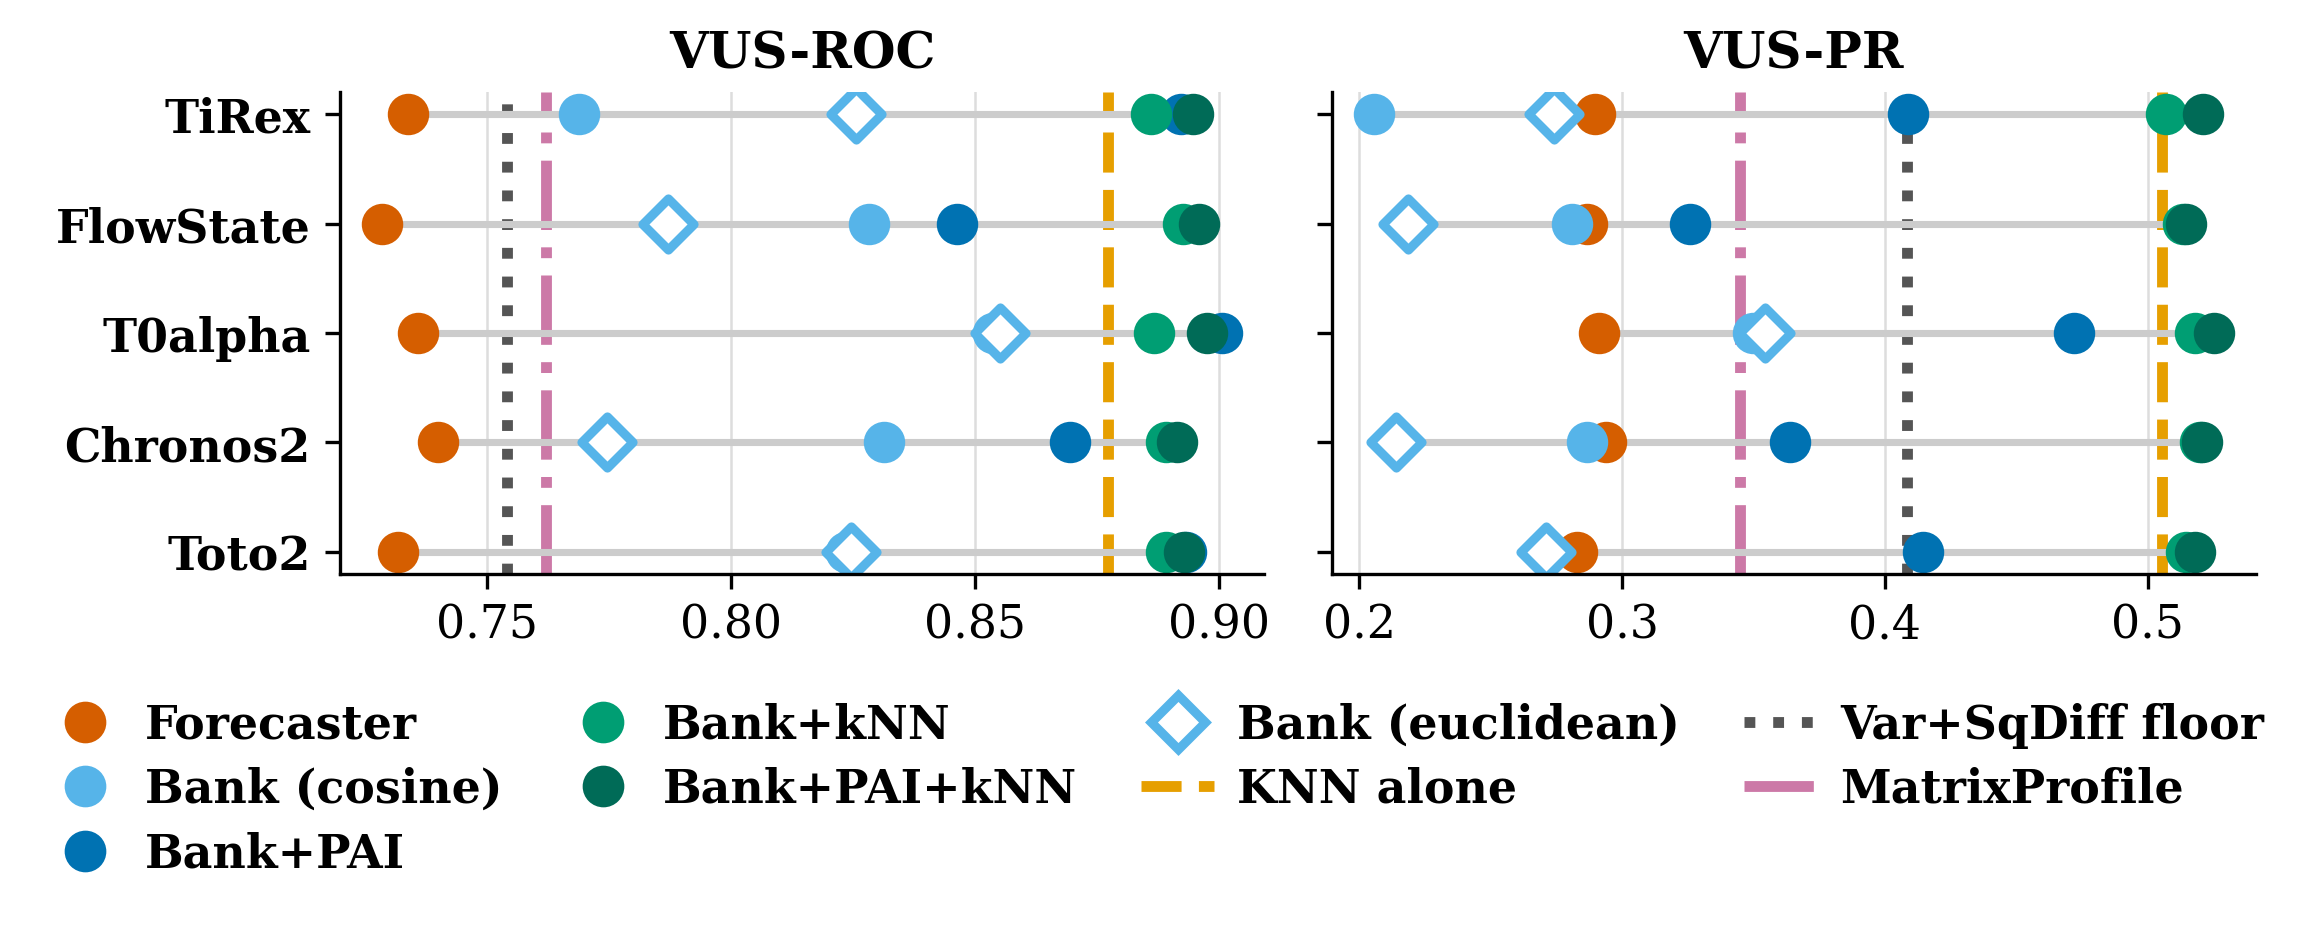
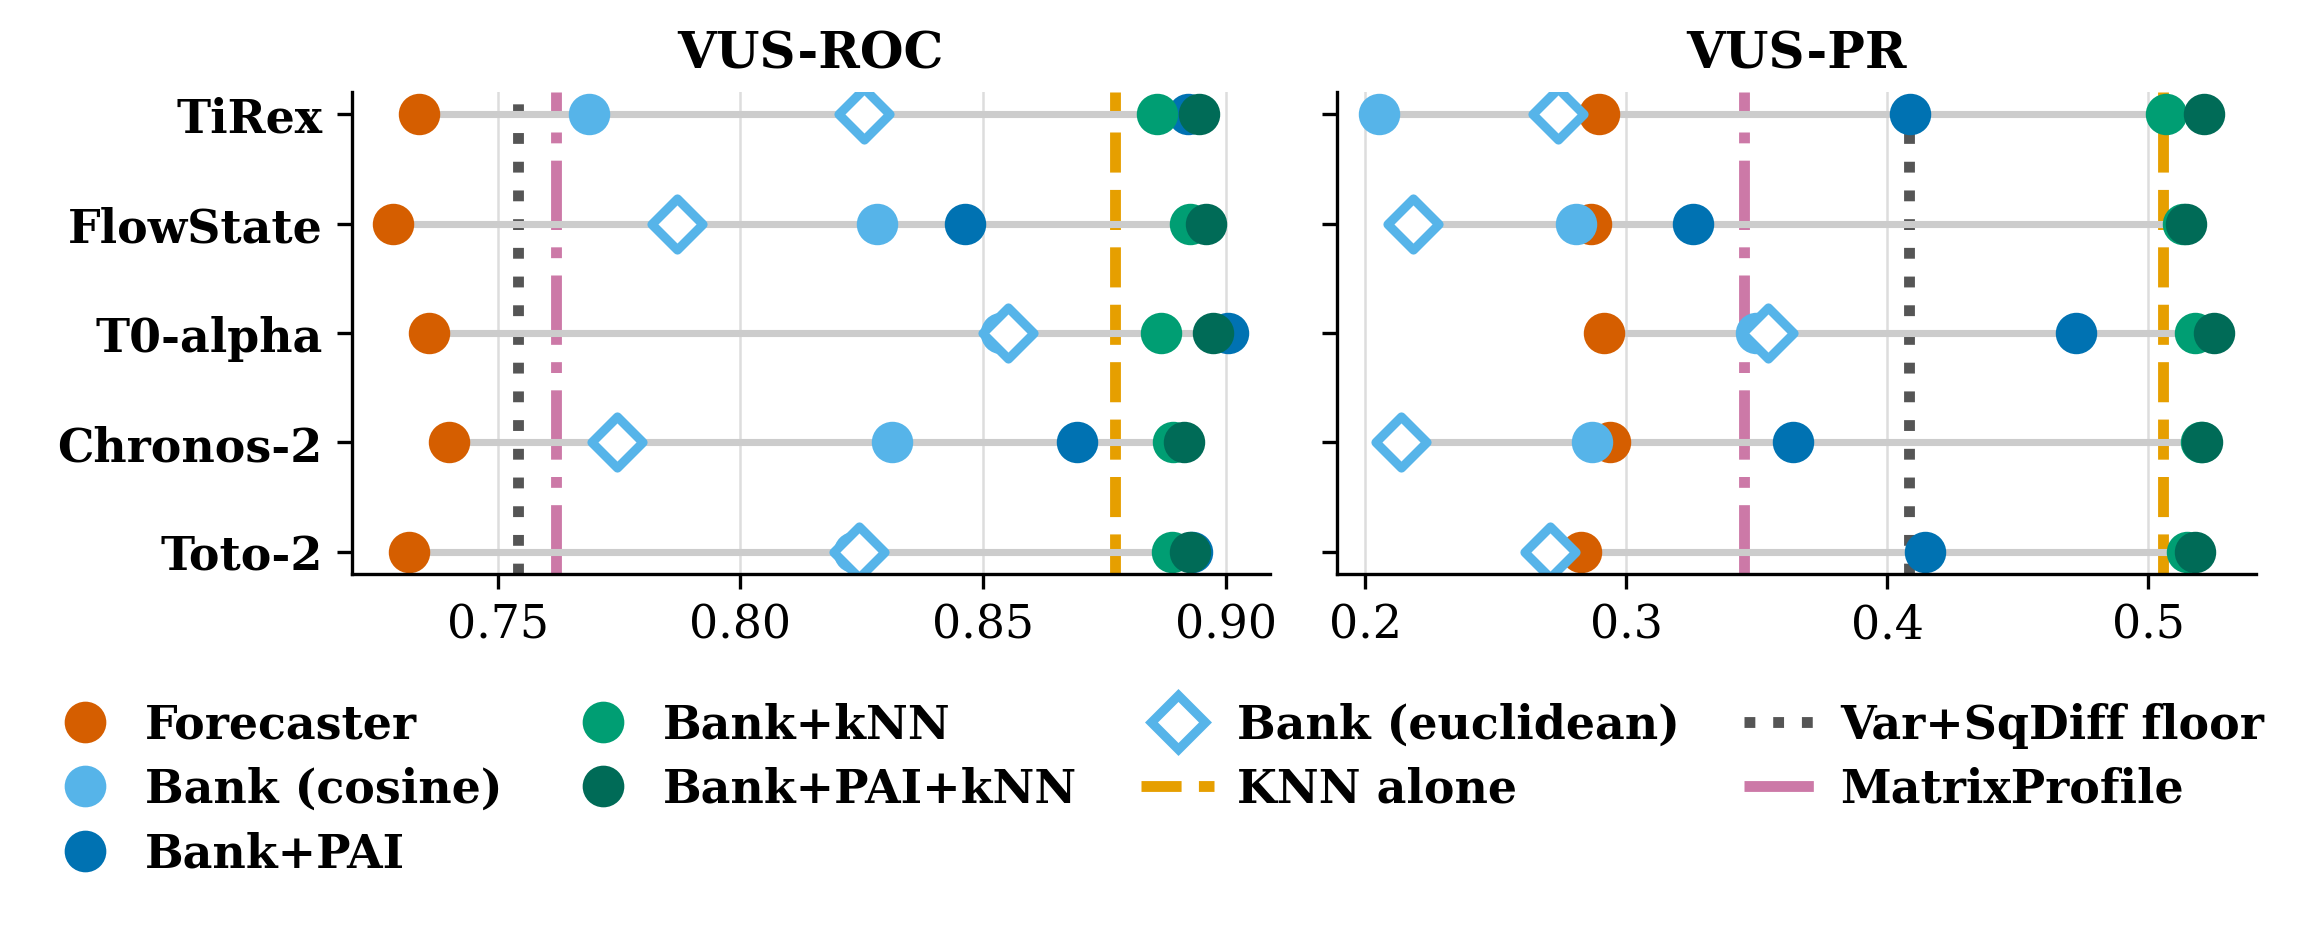
typos

diff --git a/benchmark_exp/make_fig_generalization.py b/benchmark_exp/make_fig_generalization.py
@@ -14,6 +14,8 @@ def load_baseline(name):
     return pd.read_csv(os.path.join(BASELINE_DIR, f"{name}.csv"))
 
 BACKBONE_ORDER = ["TiRex", "FlowState", "T0alpha", "Chronos2", "Toto2"]
+DISPLAY_NAME = {"TiRex": "TiRex", "FlowState": "FlowState", "T0alpha": "T0-alpha",
+                "Chronos2": "Chronos-2", "Toto2": "Toto-2"}
 TICK_FONTSIZE = 11  
 LABEL_FONTSIZE = 12 
 LEGEND_FONTSIZE = 11
@@ -102,7 +104,7 @@ def plot(df_metrics, df_matrixprofile):
         ax.set_yticks(list(y_positions))
 
         if i == 0:
-            ax.set_yticklabels(backbone_order, fontsize=TICK_FONTSIZE, fontweight="bold")
+            ax.set_yticklabels([DISPLAY_NAME[b] for b in backbone_order], fontsize=TICK_FONTSIZE, fontweight="bold")
             ax.invert_yaxis()  
         else:
             ax.tick_params(axis="y", labelleft=False)
